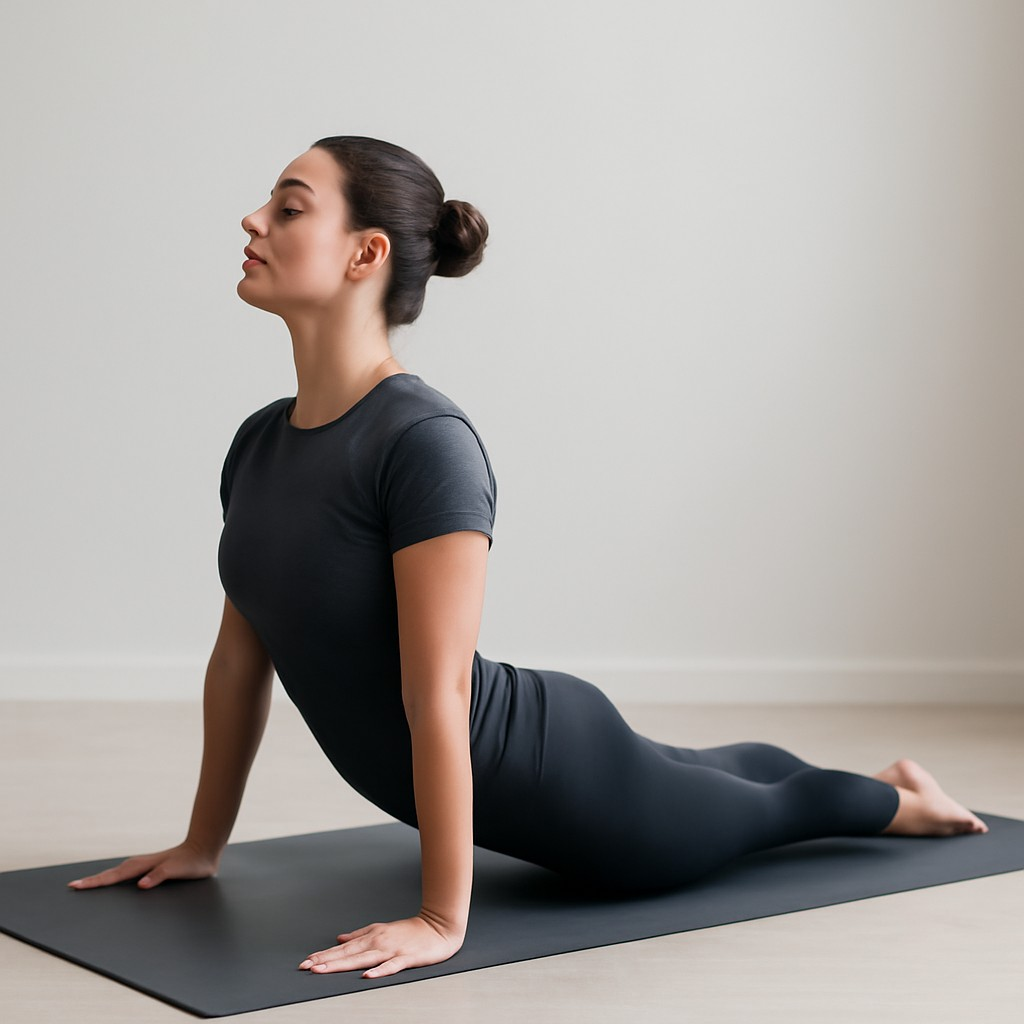
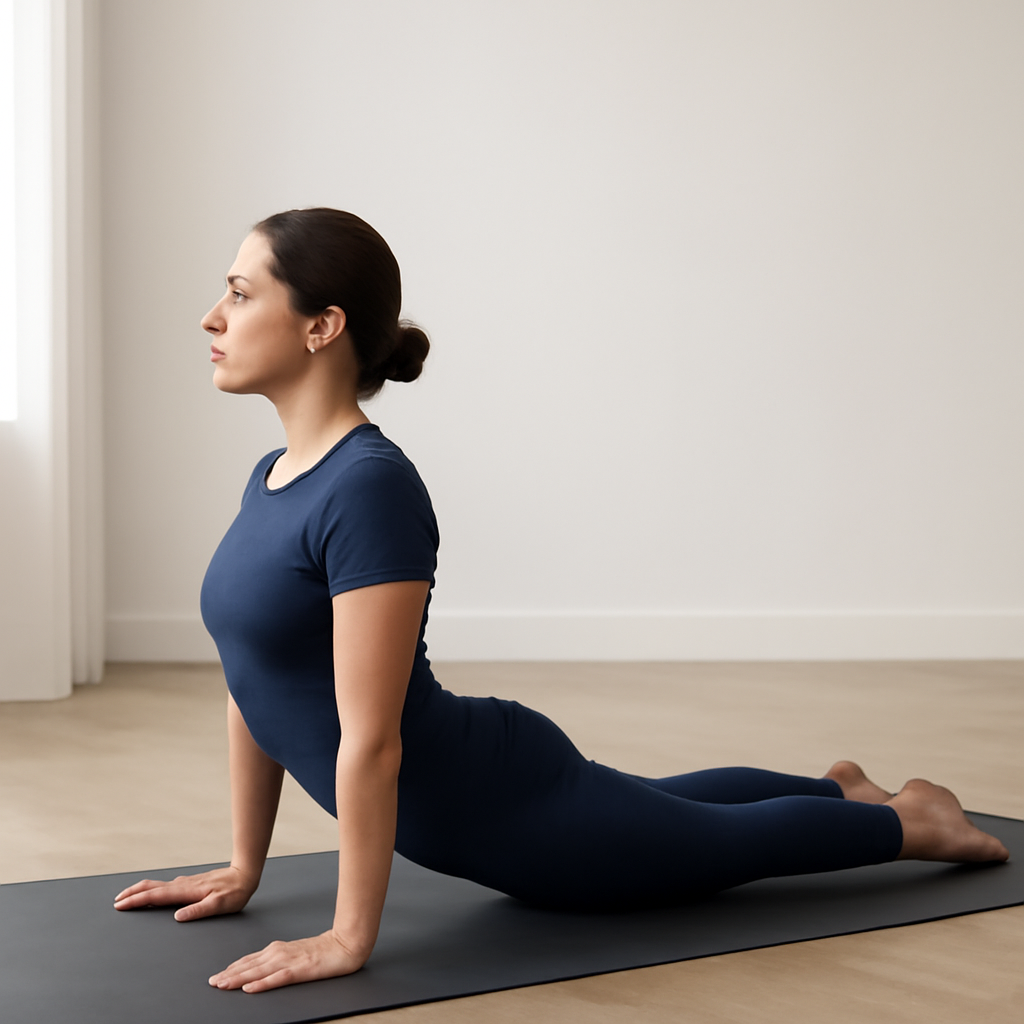
Complete yoga pose regeneration: all 36 poses now 3-frame, high-accuracy
Finishes the remaining 11 poses (seated-spinal-twist, side-plank-pose,
standing-forward-fold, supine-spinal-twist, tree-pose, triangle-pose,
upward-dog, warrior-one, warrior-two, wide-legged-forward-fold,
yoga-plank-pose) that hit an API credit limit in the previous run.
Same per-pose prompt built from each pose's own real instructions;
spot-checked Warrior II (medium quality), Side Plank, Tree Pose,
Triangle Pose, and Warrior I (low quality) and confirmed the accuracy
fix comes from the prompt detail, not the quality tier — used
lower/cheaper tiers for this batch accordingly.

diff --git a/README.md b/README.md
@@ -15,18 +15,16 @@ exercises/{exerciseId}/
 
 yoga/{poseId}/
   data.json       # same shape as exercises/
-  0.jpg, 1.jpg,   # AI-generated (gpt-image-1, high quality) — no real
-  2.jpg           # pose-photo dataset exists. Three frames (setup / midway
-                  # / full pose) as of 2026-08 for 25 of 36 poses — the
-                  # other 11 (seated-spinal-twist, side-plank-pose,
-                  # standing-forward-fold, supine-spinal-twist, tree-pose,
-                  # triangle-pose, upward-dog, warrior-one, warrior-two,
-                  # wide-legged-forward-fold, yoga-plank-pose) are still on
-                  # the original 2-frame set (0.jpg/1.jpg only, no 2.jpg) —
-                  # a generation run hit an API credit limit partway
-                  # through. Upgrade those 11 the same way once credits
-                  # allow: 3 frames, "high" quality, same consistent
-                  # model/studio style prompt as the other 25.
+  0.jpg, 1.jpg,   # AI-generated (gpt-image-1) — no real pose-photo dataset
+  2.jpg           # exists. All 36 poses regenerated 2026-08 with three
+                  # frames each (setup / midway / full pose), an explicit
+                  # per-pose prompt built from that pose's own real
+                  # instructions text, and a consistent model/studio style
+                  # prompt across all of them. Quality tier varies per pose
+                  # (high/medium/low, split across a few generation runs to
+                  # manage cost) — accuracy came from the detailed prompts,
+                  # not the quality tier, so this is intentional, not a
+                  # quality regression; spot-checked at each tier.
 
 meditation/{sessionId}/
   data.json    # same shape, statLabels relabels sets/reps/rest for display,
@@ -76,11 +74,13 @@ script genuinely gets longer and deeper, not just repeated.
 - `yoga/` and `meditation/` data is original content (standard,
   well-documented asanas/techniques, written for this project); their
   photos are AI-generated (OpenAI `gpt-image-1`). yoga/ was regenerated
-  2026-08 at "high" quality with an explicit per-pose prompt built from
-  each pose's own real `instructions` text (the original "low quality"
-  pass had gotten several complex poses — Eagle Pose, Half Moon Pose —
-  visibly wrong, not just low-res); meditation/ is still the original
-  "low quality" pass.
+  2026-08 with an explicit per-pose prompt built from each pose's own real
+  `instructions` text (the original pass had gotten several complex poses
+  — Eagle Pose, Half Moon Pose — visibly wrong, not just low-res); quality
+  tier varies per pose (high/medium/low across a few runs, to manage
+  cost) since the fix was the detailed prompt, not the quality tier —
+  confirmed by spot-checking complex poses at each tier before committing
+  to it. meditation/ is still the original "low quality" pass.
 - `learning/`'s 36 lessons each carry a real, verified `videoId` (found via
   YouTube Data API search, matched to that exact lesson's topic and
   checked embeddable) as of 2026-08 — a program literally named
